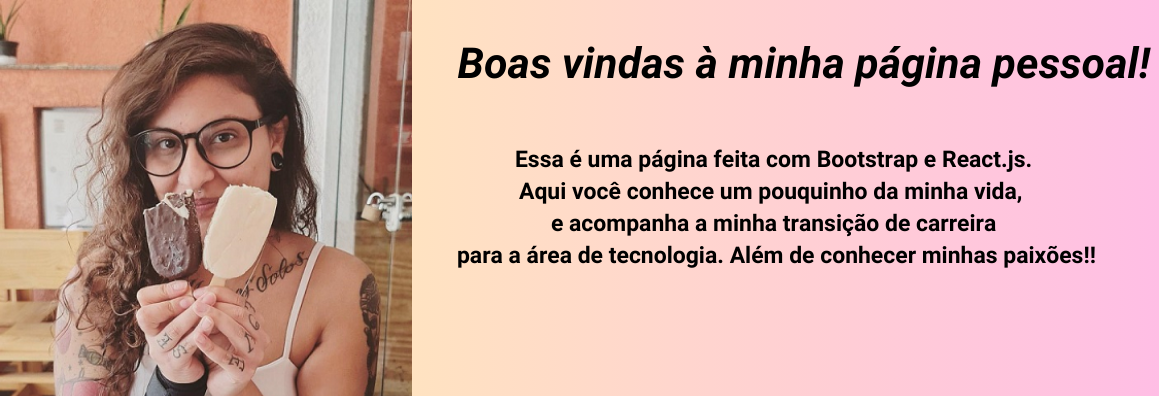
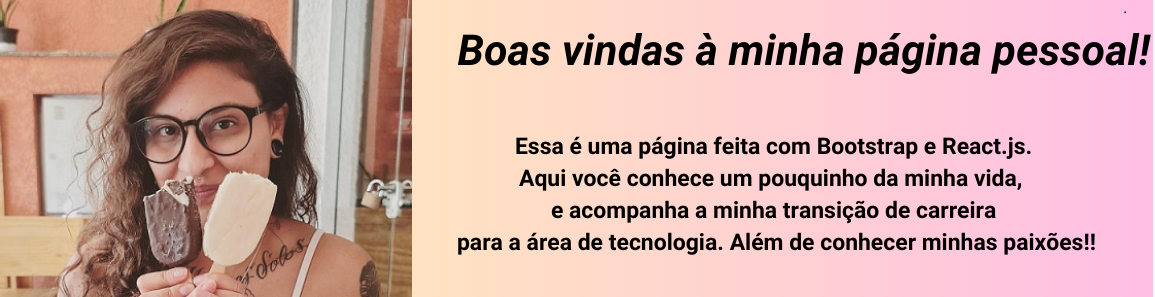
inclusão de fotos nos cards

diff --git a/index.html b/index.html
@@ -38,7 +38,13 @@
         </div>
     </nav>
 
-    <div id="carouselExampleCaptions" class="carousel slide" data-bs-ride="carousel">
+    <div>
+        <img class="img-fluid d-md-none w-100" src="./assets/mobile/capa.mobile.png" alt="">
+        <img class="img-fluid d-none d-md-block w-100" src="./assets/tablet/capa.tablet.desktop.png" alt="">
+        
+            
+    </div>
+    <!-- <div id="carouselExampleCaptions" class="carousel slide" data-bs-ride="carousel">
         <div class="carousel-indicators">
             <button type="button" data-bs-target="#carouselExampleCaptions" data-bs-slide-to="0" class="active"
                 aria-current="true" aria-label="Slide 1"></button>
@@ -49,36 +55,20 @@
         </div>
         <div class="carousel-inner">
             <div class="carousel-item active">
-                <img class="img-fluid d-md-none" src="./assets/mobile/capa.mobile.png" alt="">
-                <img class="img-fluid d-none d-md-block w-100" src="./assets/tablet/capa.tablet.desktop.png" alt="">
-                <div class="carousel-caption d-none d-md-block">
-                </div>
+                <img class="img-fluid d-md-none w-100 carrossel" src="" alt="">
+                <img class="img-fluid d-none d-md-block w-100" src="" alt="">
+                
             </div>
             <div class="carousel-item">
-                <svg class="bd-placeholder-img bd-placeholder-img-lg d-block w-100" width="800" height="400"
-                    xmlns="http://www.w3.org/2000/svg" role="img" aria-label="Placeholder: Second slide"
-                    preserveAspectRatio="xMidYMid slice" focusable="false">
-                    <title>Placeholder</title>
-                    <rect width="100%" height="100%" fill="#666"></rect><text x="50%" y="50%" fill="#444"
-                        dy=".3em">Second slide</text>
-                </svg>
-                <div class="carousel-caption d-none d-md-block">
-                    <h5>Second slide label</h5>
-                    <p>Some representative placeholder content for the second slide.</p>
-                </div>
+                <img class="img-fluid d-md-none w-100" src="" alt="">
+                <img class="img-fluid d-none d-md-block w-100" src="" alt="">
+                
+                    
             </div>
             <div class="carousel-item">
-                <svg class="bd-placeholder-img bd-placeholder-img-lg d-block w-100" width="800" height="400"
-                    xmlns="http://www.w3.org/2000/svg" role="img" aria-label="Placeholder: Third slide"
-                    preserveAspectRatio="xMidYMid slice" focusable="false">
-                    <title>Placeholder</title>
-                    <rect width="100%" height="100%" fill="#555"></rect><text x="50%" y="50%" fill="#333"
-                        dy=".3em">Third slide</text>
-                </svg>
-                <div class="carousel-caption d-none d-md-block">
-                    <h5>Third slide label</h5>
-                    <p>Some representative placeholder content for the third slide.</p>
-                </div>
+                <img class="img-fluid d-md-none w-100 carrossel" src="" alt="">
+                <img class="img-fluid d-none d-md-block w-100" src="" alt="">
+                
             </div>
         </div>
         <button class="carousel-control-prev" type="button" data-bs-target="#carouselExampleCaptions"
@@ -91,21 +81,15 @@
             <span class="carousel-control-next-icon" aria-hidden="true"></span>
             <span class="visually-hidden">Next</span>
         </button>
-    </div>
+    </div> -->
 
-    <h2 class="text-center">Sessão</h2>
+    <h2 class="text-center my-3">Sessão</h2>
 
     <div class="container row mx-auto g-4">
 
         <div class="col-12 col-md-6 col-xl-4 pb-4">
             <div class="card text-center">
-                <svg class="bd-placeholder-img card-img-top" width="100%" height="180"
-                    xmlns="http://www.w3.org/2000/svg" role="img" aria-label="Placeholder: Image cap"
-                    preserveAspectRatio="xMidYMid slice" focusable="false">
-                    <title>Placeholder</title>
-                    <rect width="100%" height="100%" fill="#868e96"></rect><text x="50%" y="50%" fill="#dee2e6"
-                        dy=".3em">Image cap</text>
-                </svg>
+                <img src="./assets/Maíra Kaminski da Fonseca.png" alt="">
                 <div class="card-header">
                     <h5 class="text-center">Programação</h5>
                     <p class="text-center">Some quick example text to build on the card title and make up the bulk of
@@ -116,13 +100,7 @@
         </div>
         <div class="col-12 col-md-6 col-xl-4 pb-4">
             <div class="card text-center">
-                <svg class="bd-placeholder-img card-img-top" width="100%" height="180"
-                    xmlns="http://www.w3.org/2000/svg" role="img" aria-label="Placeholder: Image cap"
-                    preserveAspectRatio="xMidYMid slice" focusable="false">
-                    <title>Placeholder</title>
-                    <rect width="100%" height="100%" fill="#868e96"></rect><text x="50%" y="50%" fill="#dee2e6"
-                        dy=".3em">Image cap</text>
-                </svg>
+                <img src="./assets/vidaAcademica.png" alt="">
                 <div class="card-header">
                     <h5 class="text-center">Vida Acadêmica</h5>
                     <p class="text-center">Some quick example text to build on the card title and make up the bulk of
@@ -133,13 +111,7 @@
         </div>
         <div class="col-12 col-md-6 col-xl-4 pb-4">
             <div class="card text-center">
-                <svg class="bd-placeholder-img card-img-top" width="100%" height="180"
-                    xmlns="http://www.w3.org/2000/svg" role="img" aria-label="Placeholder: Image cap"
-                    preserveAspectRatio="xMidYMid slice" focusable="false">
-                    <title>Placeholder</title>
-                    <rect width="100%" height="100%" fill="#868e96"></rect><text x="50%" y="50%" fill="#dee2e6"
-                        dy=".3em">Image cap</text>
-                </svg>
+                <img src="./assets/mobile/girassol.png" alt="">
                 <div class="card-header">
                     <h5 class="text-center">Desenho</h5>
                     <p class="text-center">Some quick example text to build on the card title and make up the bulk of
@@ -150,13 +122,7 @@
         </div>
         <div class="col-12 col-md-6 col-xl-4 pb-4">
             <div class="card text-center">
-                <svg class="bd-placeholder-img card-img-top" width="100%" height="180"
-                    xmlns="http://www.w3.org/2000/svg" role="img" aria-label="Placeholder: Image cap"
-                    preserveAspectRatio="xMidYMid slice" focusable="false">
-                    <title>Placeholder</title>
-                    <rect width="100%" height="100%" fill="#868e96"></rect><text x="50%" y="50%" fill="#dee2e6"
-                        dy=".3em">Image cap</text>
-                </svg>
+                <img src="./assets/veganismo.png" alt="">
                 <div class="card-header">
                     <h5 class="text-center">Veganismo</h5>
                     <p class="text-center">Some quick example text to build on the card title and make up the bulk of
@@ -167,13 +133,7 @@
         </div>
         <div class="col-12 col-md-6 col-xl-4 pb-4">
             <div class="card text-center">
-                <svg class="bd-placeholder-img card-img-top" width="100%" height="180"
-                    xmlns="http://www.w3.org/2000/svg" role="img" aria-label="Placeholder: Image cap"
-                    preserveAspectRatio="xMidYMid slice" focusable="false">
-                    <title>Placeholder</title>
-                    <rect width="100%" height="100%" fill="#868e96"></rect><text x="50%" y="50%" fill="#dee2e6"
-                        dy=".3em">Image cap</text>
-                </svg>
+                <img src="./assets/duca.png" alt="">
                 <div class="card-header">
                     <h5 class="text-center">Duca</h5>
                     <p class="text-center">Some quick example text to build on the card title and make up the bulk of
@@ -184,13 +144,7 @@
         </div>
         <div class="col-12 col-md-6 col-xl-4 pb-4">
             <div class="card text-center">
-                <svg class="bd-placeholder-img card-img-top" width="100%" height="180"
-                    xmlns="http://www.w3.org/2000/svg" role="img" aria-label="Placeholder: Image cap"
-                    preserveAspectRatio="xMidYMid slice" focusable="false">
-                    <title>Placeholder</title>
-                    <rect width="100%" height="100%" fill="#868e96"></rect><text x="50%" y="50%" fill="#dee2e6"
-                        dy=".3em">Image cap</text>
-                </svg>
+                <img src="./assets/mobile/violao.png" alt="">
                 <div class="card-header ">
                     <h5 class="text-center">Violão</h5>
                     <p class="text-center">Some quick example text to build on the card title and make up the bulk of

diff --git a/styles.css b/styles.css
@@ -2,3 +2,7 @@
     width: 325px;
     
 }
+
+.carrossel {
+    height: 80%;
+}
